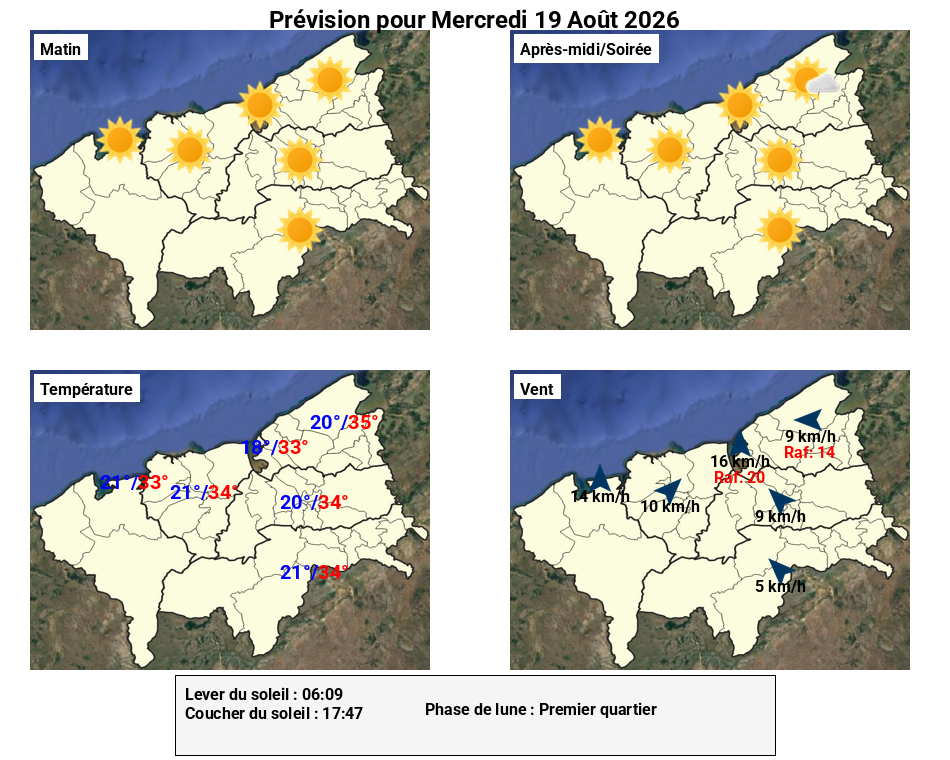
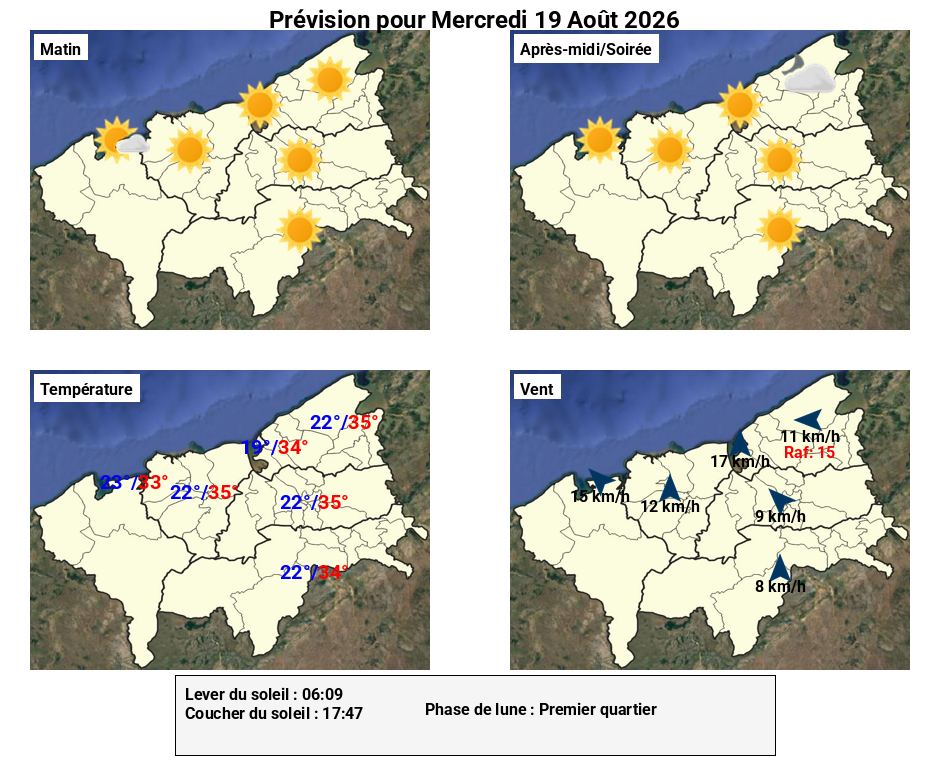
Daily forecast sync: Wed Aug 19 00:26:09 UTC 2026

diff --git a/assets/js/script.js b/assets/js/script.js
@@ -84,17 +84,17 @@ ANTICYCLONE 1033 CENTRE PAR 30S/63E.
 
 
     const templates = [
-    `Temps généralement ensoleillé ou partiellement nuageux le matin, devenant plus nuageux avec des averses isolées l'après-midi et en soirée, notamment à Soalala, Marovoay, AmbatoBoeny et Mahajanga II.
-**Vents** : Vents faibles à modérés de secteur Sud à Sud-Ouest, soufflant entre 6 et 15 km/h, avec des rafales pouvant atteindre 19 km/h à Mahajanga I.
-**Températures minimales** : entre 19 et 22 °C
-**Températures maximales** : entre 32 et 35 °C`,
-    `Temps dégagé et ensoleillé sur l'ensemble de la région, avec quelques passages nuageux l'après-midi à MahajangaII.
-**Vents** : Vents faibles à modérés (5 à 16 km/h) de secteur Sud-Est à Sud, avec des rafales atteignant 20 km/h à MahajangaI et 14 km/h à MahajangaII.
-**Températures minimales** : entre 18 et 21 °C
+    `Le temps sera ensoleillé à peu nuageux sur l'ensemble de la région Boeny, avec des passages partiellement nuageux l'après-midi sur MahajangaII.
+**Vents** : Vents faibles à modérés (8 à 17 km/h), majoritairement de secteur Sud-Est à Sud. Des rafales de 15 km/h sont possibles à MahajangaII, avec un vent d'Est-Nord-Est.
+**Températures minimales** : entre 19 et 23 °C
 **Températures maximales** : entre 33 et 35 °C`,
-    `La journée sera généralement ensoleillée sur la région Boeny, avec quelques passages de temps peu nuageux localement, notamment sur Soalala, Marovoay et AmbatoBoeny.
-**Vents** : Vents faibles à modérés, principalement de secteur Est à Sud-Est (E-SE), entre 9 et 14 km/h, avec des rafales pouvant atteindre 19 km/h à MahajangaI.
-**Températures minimales** : entre 20 et 22 °C
+    `Alternance d'éclaircies et de passages nuageux sur l'ensemble de la région, avec des averses isolées l'après-midi, notamment sur Mahajanga I, Mitsinjo (Ouest) et Mahajanga II (Est).
+**Vents** : Vents faibles à modérés, de secteur Sud-Est à Sud-Ouest (8 à 13 km/h), avec des rafales pouvant atteindre 17 km/h à Mahajanga II.
+**Températures minimales** : entre 21 et 22 °C
+**Températures maximales** : entre 34 et 35 °C`,
+    `Temps ensoleillé toute la journée sur l'ensemble de la région, de Soalala à l'Ouest jusqu'à MahajangaII à l'Est, en passant par Marovoay à l'intérieur des terres.
+**Vents** : Vents faibles à modérés (7 à 16 km/h) de secteur Sud-Est à Sud, avec des rafales atteignant 20 km/h à MahajangaI.
+**Températures minimales** : entre 21 et 22 °C
 **Températures maximales** : entre 33 et 35 °C`
 ];
 
